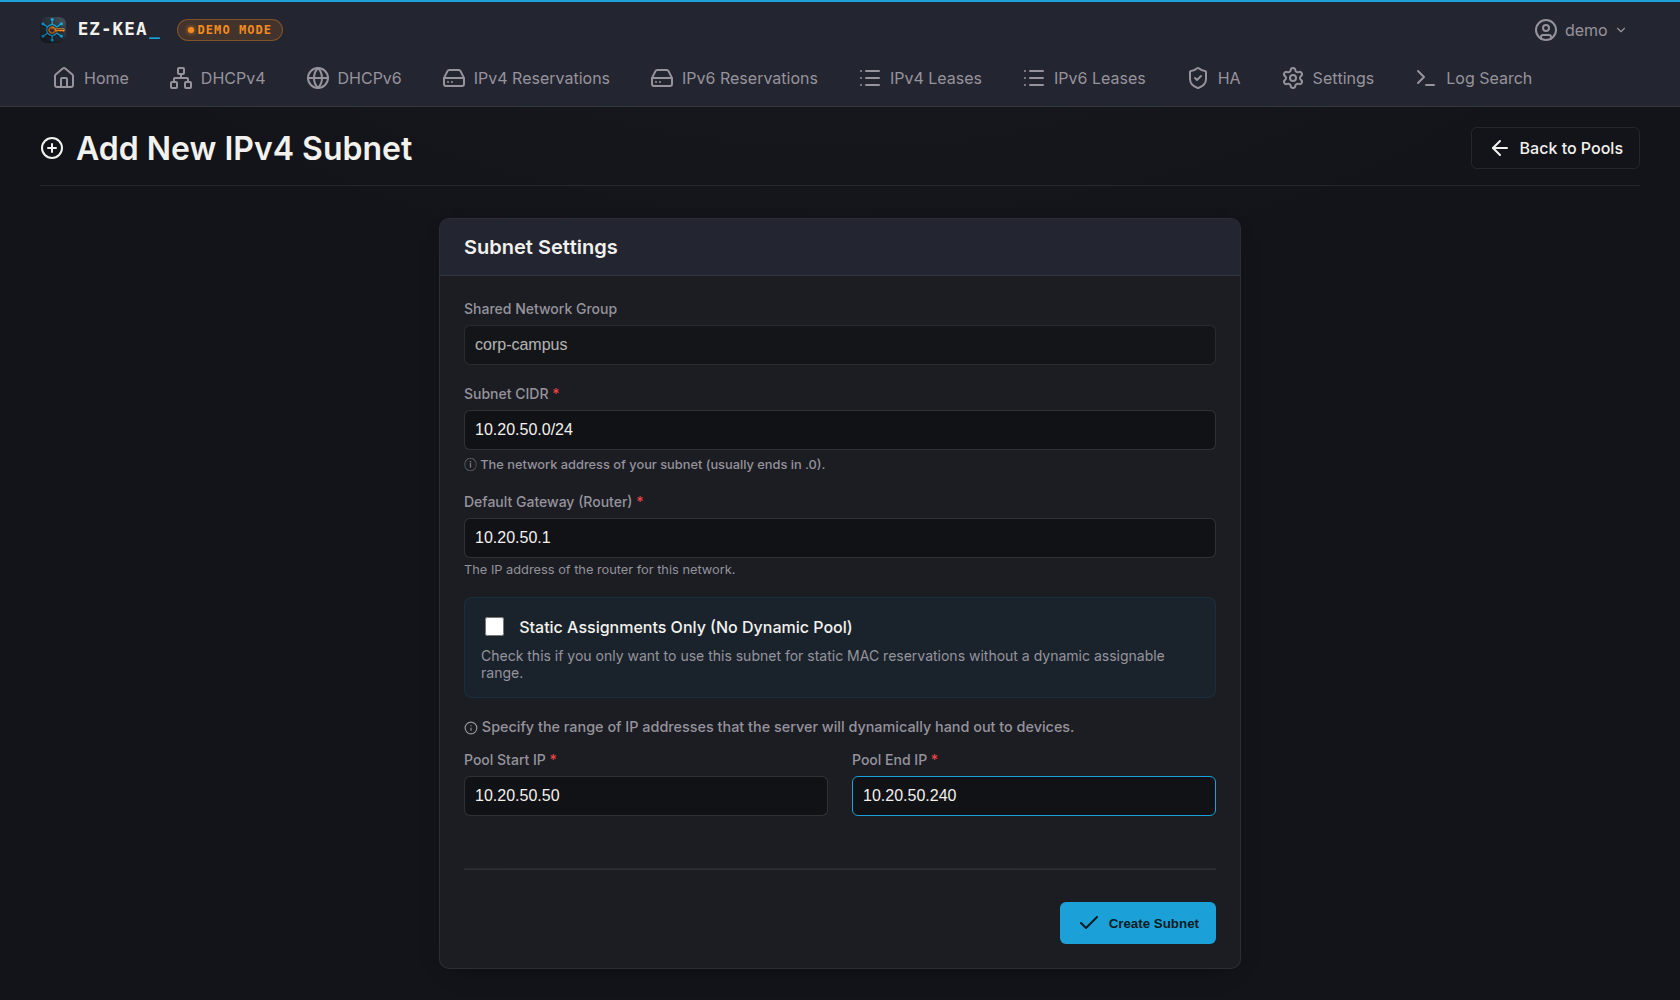
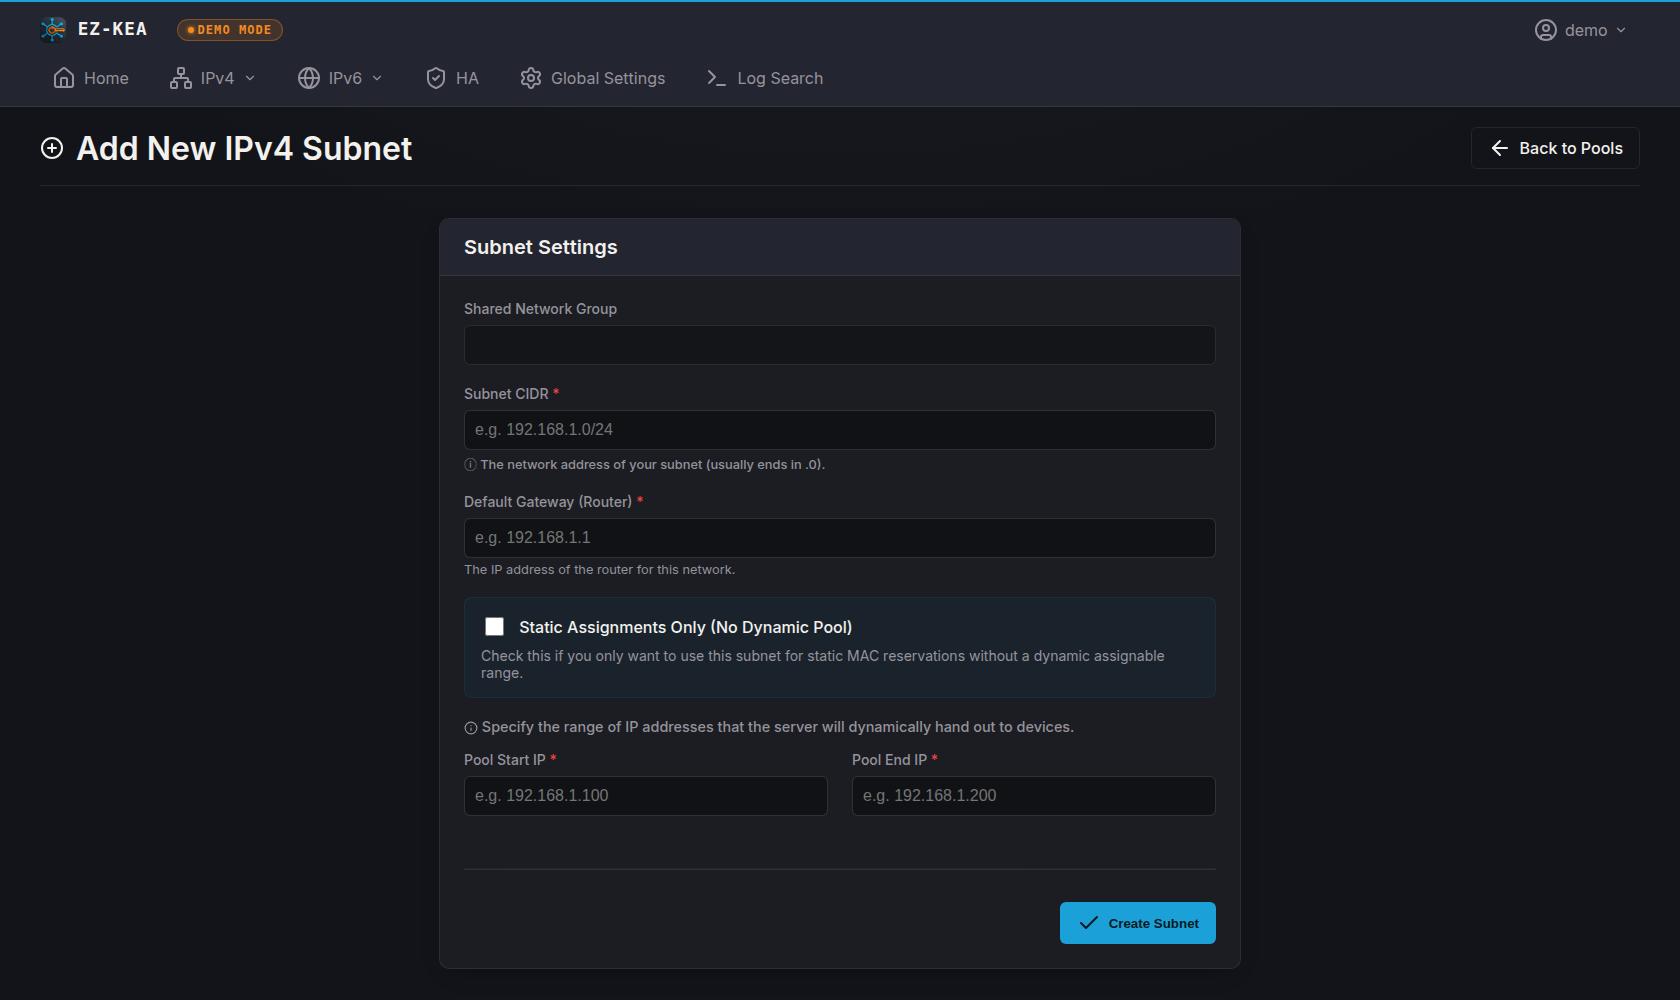
Refresh README screenshots and feature docs for navbar/dashboard/search/edit
All docs/images screenshots predated the navbar redesign, live homepage
dashboard, lease/reservation search with subnet CIDR filtering, and in-place
resource editing shipped over the last several commits. Recaptured all of
them against a fresh seed_demo.py data set, added a new dashboard shot for
the homepage redesign and an edit-subnet shot for the new editing feature,
and dropped the orphaned pre-redesign logs.png. Updated the "What it does"
section to describe the new dashboard, search/filter/export, and in-place
editing, and fixed a couple of stale "Settings" references now that it's
split into per-protocol Settings and Global Settings.

diff --git a/README.md b/README.md
@@ -45,7 +45,7 @@ Network and infrastructure engineers, ISPs, MSPs, and anyone running Kea in prod
 
 It is a shared sandbox with fake data and it resets every 30 minutes, so break whatever you want.
 
-More screenshots: [log search](docs/images/logsearch.png) · [adding a subnet](docs/images/new-subnet.png) · [IPv6 pools and prefix delegation](docs/images/pools6.png) · [high availability](docs/images/ha.png) · [reservations](docs/images/reservations.png) · [leases](docs/images/leases.png)
+More screenshots: [live dashboard](docs/images/dashboard.png) · [log search](docs/images/logsearch.png) · [adding a subnet](docs/images/new-subnet.png) · [editing a subnet](docs/images/edit-subnet.png) · [IPv6 pools and prefix delegation](docs/images/pools6.png) · [high availability](docs/images/ha.png) · [reservations](docs/images/reservations.png) · [leases](docs/images/leases.png) · [IPv6 leases](docs/images/leases6.png)
 
 ## Quick start
 
@@ -117,7 +117,7 @@ that call the account `kea` rather than `_kea`, use that instead.
 ### Reloading Kea 3.x
 
 Kea 3.2 ships **no `keactrl`**, so EZ-KEA's default reload strategy cannot work
-there. In **Settings → Reload Strategy**, choose **Control socket
+there. In **Global Settings → Reload Strategy**, choose **Control socket
 (config-reload)** (`KEA_RELOAD_STRATEGY=control-socket`), which talks to the
 daemon's own socket and reports whether the reload actually succeeded. Make sure
 the daemon has a `control-socket` (or 3.0+ `control-sockets`) block — ISC's
@@ -127,7 +127,7 @@ shipped config does.
 
 One Python process (waitress serving a Flask app) on the same host as Kea.
 
-- **Discovery.** EZ-KEA determines the config file the running Kea process is actually using, so you never tell it where your config lives and it can't drift onto a stale copy. Mechanically it reads `/proc` for `kea-dhcp4` and `kea-dhcp6` and takes the path each daemon was launched with, falling back to `/etc/kea/` and then `/usr/local/etc/kea/`. Every path is overridable in Settings. With no Kea present it sandboxes to `./data/` and runs in demo mode.
+- **Discovery.** EZ-KEA determines the config file the running Kea process is actually using, so you never tell it where your config lives and it can't drift onto a stale copy. Mechanically it reads `/proc` for `kea-dhcp4` and `kea-dhcp6` and takes the path each daemon was launched with, falling back to `/etc/kea/` and then `/usr/local/etc/kea/`. Every path is overridable in Global Settings. With no Kea present it sandboxes to `./data/` and runs in demo mode.
 - **In-place editing.** Changes go into Kea's own JSON. Writes to a given config file are serialized with a lock.
 - **Backup, validate, apply.** Every config write copies the existing file first and aborts if that copy fails, keeping the hundred most recent (namespaced by a hash of the config path, so a restore can't grab the wrong file's backup). Applying runs `kea-dhcpN -t` and stops on failure, then reloads via `keactrl`, the control socket's `config-reload`, or a SIGHUP to a Docker container — an explicit setting, never guessed.
 - **Storage.** Two embedded SQLite files under `./data/`: one for local accounts and settings, one a disposable log index that rebuilds itself if you delete it. No Postgres, no MySQL, no broker, nothing else to run.
@@ -135,12 +135,13 @@ One Python process (waitress serving a Flask app) on the same host as Kea.
 
 ## What it does
 
-- **DHCPv4 and DHCPv6** — shared networks, standalone subnets, address pools, and per-subnet DHCP options for both families. Subnets are created and deleted through the UI (one address pool each); options are editable in place.
+- **Live homepage dashboard** — separate IPv4 and IPv6 cards, each with an HA status badge, active lease/reservation/subnet counts, an async daemon-health badge (Running, Not Configured, Unreachable, or Demo Mode), and pool-utilization bars grouped by shared network (a standalone subnet counts as its own group), expandable to per-subnet detail.
+- **DHCPv4 and DHCPv6** — shared networks, standalone subnets, address pools, and per-subnet DHCP options for both families. Subnets and shared networks are created, edited in place, and deleted through the UI (one address pool each per subnet). A subnet's CIDR is locked once created, but its gateway, pool range, and static-only toggle are editable; a shared network's name can be renamed. DHCP options are editable in place.
 - **Prefix delegation** — `pd-pools` with a delegated length, validated against the pool's own prefix, so downstream routers and CPE get a block rather than a single address.
-- **Reservations** — MAC-based for DHCPv4; DUID-based for DHCPv6, covering fixed addresses, delegated prefixes, or both on one reservation.
+- **Reservations** — MAC-based for DHCPv4; DUID-based for DHCPv6, covering fixed addresses, delegated prefixes, or both on one reservation. Editable in place (MAC/DUID, IP, and hostname; the subnet is locked). The list pages have free-text search, a subnet CIDR filter, sortable columns, CSV export, and pagination.
 - **High availability** — writes and edits Kea's `libdhcp_ha.so` hook for hot-standby, load-balancing or passive-backup, with the peer list, roles and timers as fields and the peer set validated before saving. A heartbeat button reads current peer state back off the daemon's control socket. EZ-KEA configures HA and reads its status; it does not drive failover, and the Control Agent each peer talks to is out of scope.
 - **Historical log search** — a background thread indexes your Kea logs into SQLite (FTS5 where available), including rotated and gzipped archives, and survives rotation by inode change, truncation or `copytruncate`. Search by MAC (any spelling, including inside a client-id or DUID), IPv4, IPv6, CIDR range, or free text, filtered by severity, address family and time range. Results export to CSV and every search is a linkable URL. Retention defaults to 365 days.
-- **Leases** — active DHCPv4 and DHCPv6 lease tables read from Kea's memfile CSV. These are plain tables; the search feature is log search, above.
+- **Leases** — active DHCPv4 and DHCPv6 lease tables read from Kea's memfile CSV, with free-text search (MAC/IP/hostname, or DUID/IPv6/hostname for v6), a subnet CIDR filter, a status filter, an expiration-timeframe filter (presets like "expiring in the next 24 hours" plus a custom date range), sortable columns, CSV export, and pagination.
 - **Validation, backup and restore** — overlap and range checks in the forms, a syntax check against Kea's own binary, automatic pre-write backups, and restore from the UI.
 - **Kea 2.x and 3.x** — EZ-KEA detects the daemon's version and writes the control-socket syntax that version accepts (3.0 renamed `control-socket` to `control-sockets`), and reads either. Exercised against Kea 2.0.2 and 3.2.0 in the testbed.
 - **Multi-user auth** — local accounts, optional TOTP two-factor with recovery codes, and SMTP-backed password reset. Accounts are administrator or standard; admins additionally manage users, licensing and email settings. There is no read-only role — any account can change DHCP configuration.
@@ -219,7 +220,7 @@ Tagged releases are on the [Releases page](https://github.com/fenleytech/ez-kea/
 
 ## Development
 
-**440 unit and route tests**, running with no Kea install and no network access:
+**462 unit and route tests**, running with no Kea install and no network access:
 
 ```bash
 pip install -r requirements.txt
